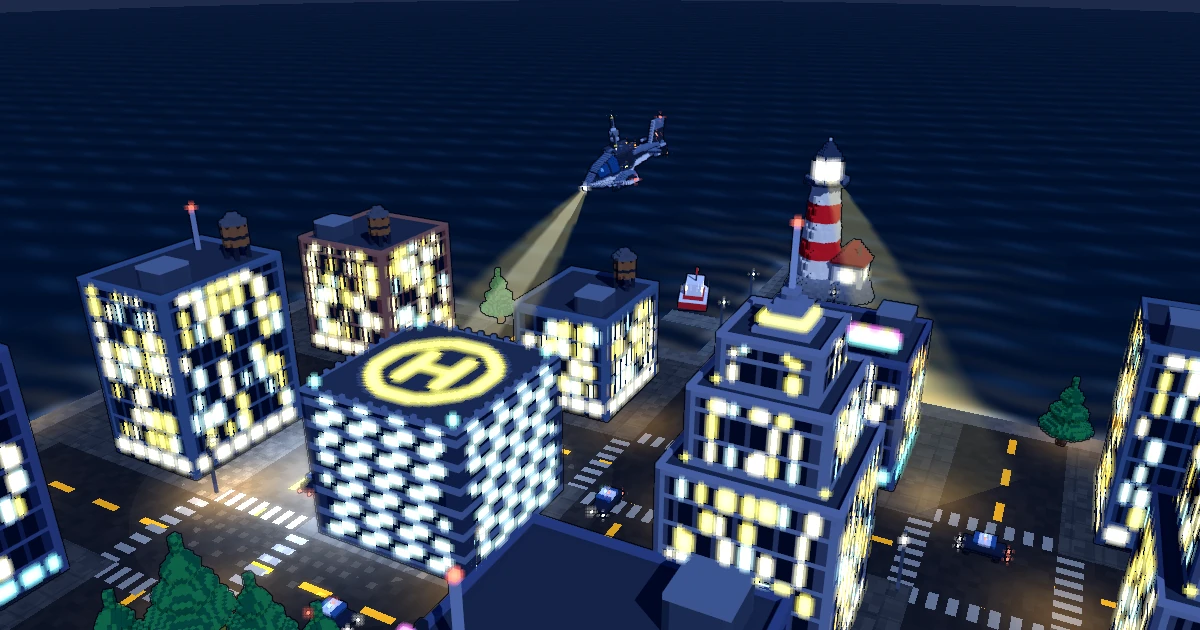
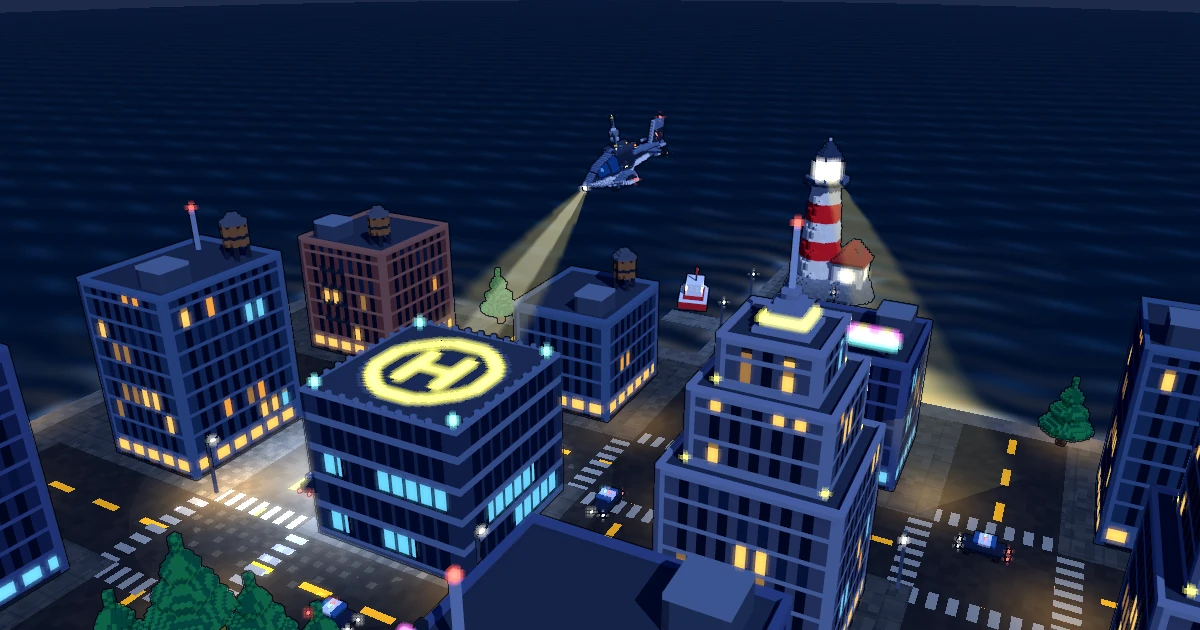
Add graded continuous emissive shader + refined suite-clustered midnight building lights

diff --git a/examples/airwolf-city/src/assets.ts b/examples/airwolf-city/src/assets.ts
@@ -22,13 +22,13 @@ function buildVoxelAsset(
   l: number,
   h: number,
   voxelScale: number,
-  fill: (put: (x: number, y: number, z: number, rgb: RGB, emissive?: boolean) => void) => void,
+  fill: (put: (x: number, y: number, z: number, rgb: RGB, emissive?: boolean | number) => void) => void,
   sockets: Record<string, SocketDef> = {},
   pivot?: [number, number, number],
 ): VolumeAsset {
   const rgba = new Uint8Array(w * l * h * 4);
   const emis = new Uint8Array(w * l * h);
-  const put = (x: number, y: number, z: number, rgb: RGB, emissive = false) => {
+  const put = (x: number, y: number, z: number, rgb: RGB, emissive: boolean | number = false) => {
     const ix = Math.round(x);
     const iy = Math.round(y);
     const iz = Math.round(z);
@@ -39,7 +39,7 @@ function buildVoxelAsset(
     rgba[p + 1] = rgb[1];
     rgba[p + 2] = rgb[2];
     rgba[p + 3] = 255;
-    emis[idx] = emissive ? 255 : 0;
+    emis[idx] = typeof emissive === "number" ? Math.max(0, Math.min(255, Math.round(emissive))) : (emissive ? 255 : 0);
   };
   fill(put);
   return createVolumeAsset({
@@ -526,10 +526,12 @@ export function createTowerAsset(
     : [76, 96, 130];
   const lobbyBase: RGB = [34, 40, 56];
   const roofCol: RGB = [48, 56, 74];
-  const winWarm: RGB = [255, 226, 138];
-  const winAmber: RGB = [255, 178, 82];
-  const winCyan: RGB = [118, 232, 255];
-  const winOff: RGB = [18, 25, 42];
+  const winWarm: RGB = [242, 198, 114];
+  const winAmber: RGB = [228, 162, 82];
+  const winDim: RGB = [152, 118, 76];
+  const winCyan: RGB = [118, 194, 224];
+  const winOff: RGB = [16, 22, 38];
+  const winGlassReflect: RGB = [28, 38, 62];
   const neonPink: RGB = [255, 68, 178];
   const neonCyan: RGB = [64, 240, 255];
   const neonGold: RGB = [255, 214, 78];
@@ -565,34 +567,46 @@ export function createTowerAsset(
                 put(x, y, z, wallTrim);
                 continue;
               }
-              // Ground-floor glowing storefront arcade & entrance doors!
+              // Ground-floor glowing storefront arcade & entrance doors (cozy warm glow, zero blowout!)
               if (isGround && z < 3 * m) {
                 const coord = (x === x0 || x === x1) ? (y - y0) : (x - x0);
                 const isShopWin = z >= m && z < 3 * m - (m === 2 ? 1 : 0) && (coord % (3 * m)) >= m;
                 if (isShopWin) {
-                  put(x, y, z, style === "neon" ? neonCyan : winWarm, true);
+                  put(x, y, z, style === "neon" ? winCyan : winWarm, 132);
                 } else {
                   put(x, y, z, z === 0 ? lobbyBase : wallTrim);
                 }
                 continue;
               }
-              // Architectural pilasters & recessed window bays
+              // Architectural pilasters & crisp recessed office/apartment window suites!
               const uCoord = (x === x0 || x === x1) ? (y - y0) : (x - x0);
               const bayStride = 2 * m;
-              const inBay = (uCoord % bayStride) >= (m === 2 ? 1 : 1) && uCoord > m && uCoord < ((x === x0 || x === x1) ? (y1 - y0 - m) : (x1 - x0 - m));
+              const bayPhase = uCoord % bayStride;
+              // Leave crisp 1-voxel stone/steel mullion between every window pane in HD!
+              const inBay = (m === 2 ? (bayPhase === 1 || bayPhase === 2) : (bayPhase === 1)) &&
+                uCoord > m && uCoord < ((x === x0 || x === x1) ? (y1 - y0 - m) : (x1 - x0 - m));
               if (isFloorBand || !inBay) {
                 const sill = style === "brick" && relZ % floorStep === 0;
                 put(x, y, z, sill ? wallTrim : isFloorBand ? wallTrim : wallBase);
               } else {
-                const r = hash3(Math.floor(x / m), Math.floor(y / m), Math.floor(z / floorStep), seed);
-                const litThresh = style === "glass" ? 128 : 142;
-                if (r > litThresh) {
-                  const col = r > 228 ? winCyan : r > 184 ? winWarm : winAmber;
-                  // In HD, leave a subtle 1-voxel dark window blind at the top of some windows!
-                  const blind = m === 2 && (relZ % floorStep === floorStep - 1) && (r & 1) === 0;
-                  put(x, y, z, blind ? winOff : col, !blind);
+                const floorIdx = Math.floor(z / floorStep);
+                const suiteIdx = Math.floor(uCoord / (4 * m)); // cluster adjacent panes into realistic rooms/suites!
+                const floorRoll = hash3(floorIdx, seed, 3, seed);
+                const suiteRoll = hash3(suiteIdx, floorIdx, (x === x0 || x === x1) ? 1 : 2, seed);
+                const paneRoll = hash3(Math.floor(uCoord / bayStride), floorIdx, 9, seed);
+                // Some entire floors dark (unoccupied at midnight), lit suites have warm cohesive room hues!
+                const floorActive = floorRoll > 66;
+                const litThresh = style === "glass" ? 168 : 176;
+                if (floorActive && suiteRoll > litThresh && paneRoll > 48) {
+                  const col = suiteRoll > 236 ? winCyan : suiteRoll > 212 ? winWarm : suiteRoll > 190 ? winAmber : winDim;
+                  // Top voxel of each HD window pane slightly shaded like interior ceiling / venetian blind!
+                  const isTopOfPane = m === 2 && (relZ % floorStep === floorStep - 1);
+                  const isUpperLit = isTopOfPane && (suiteRoll & 1) === 0;
+                  const emisVal = isUpperLit ? 68 : suiteRoll > 212 ? 128 : 108;
+                  put(x, y, z, isUpperLit ? winDim : col, emisVal);
                 } else {
-                  put(x, y, z, winOff);
+                  const subtleSkyRef = ((floorIdx + suiteIdx) % 7 === 0);
+                  put(x, y, z, subtleSkyRef ? winGlassReflect : winOff);
                 }
               }
             }
@@ -753,12 +767,17 @@ export function createHelipadTowerAsset(detail: DetailLevel): VolumeAsset {
             continue;
           }
           const cornerPier = (x < 2 * m || x >= w - 2 * m) && (y < 2 * m || y >= l - 2 * m);
-          const band = z % (3 * m) < m;
-          if (cornerPier || band) {
+          const band = z % (4 * m) < m;
+          const mullion = ((x === 0 || x === w - 1) ? y : x) % (2 * m) === 0;
+          if (cornerPier || band || mullion) {
             put(x, y, z, band ? TRIM : WALL);
           } else {
-            const lit = ((Math.floor(x / m) + Math.floor(y / m) + Math.floor(z / m) * 3) % 5) < 2;
-            put(x, y, z, lit ? [122, 224, 255] : [20, 30, 52], lit);
+            // Sleek dark smoked obsidian glass with subtle occasional late-night ops floor glow
+            const fl = Math.floor(z / (4 * m));
+            const st = Math.floor(((x === 0 || x === w - 1) ? y : x) / (5 * m));
+            const r = hash3(st, fl, (x === 0 || x === w - 1) ? 1 : 2, 99);
+            const lit = r > 196 && (z % (4 * m)) >= m + (m === 2 ? 1 : 0);
+            put(x, y, z, lit ? [116, 198, 232] : [18, 26, 46], lit ? 112 : 0);
           }
         }
       }

diff --git a/packages/core/src/shaders.ts b/packages/core/src/shaders.ts
@@ -213,11 +213,6 @@ vec3 shadeVoxel(vec3 baseLin, vec3 worldN, float ao, float emisFlag, float selfS
   float nightW = max(0.0, (uTimeOfDay - 0.48) / 0.52);
   bool arcade = (uStyle == 0 || uStyle == 3);
 
-  if (emisFlag > 0.5) {
-    float boost = 1.0 + (0.45 + nightW * 0.9) * emisBoost;
-    return baseLin * boost + vec3(0.15, 0.09, 0.02) * emisBoost;
-  }
-
   vec3 shMul = arcade
     ? mix(mix(vec3(0.50, 0.60, 0.84), vec3(0.44, 0.40, 0.68), sunsetW), vec3(0.18, 0.24, 0.44), nightW)
     : mix(mix(vec3(0.62, 0.69, 0.84), vec3(0.52, 0.48, 0.70), sunsetW), vec3(0.20, 0.25, 0.42), nightW);
@@ -248,7 +243,19 @@ vec3 shadeVoxel(vec3 baseLin, vec3 worldN, float ao, float emisFlag, float selfS
   vec3 skyBounce = mix(vec3(1.03, 0.96, 0.88), vec3(0.96, 1.01, 1.06), hemi);
   float bounceBack = max(0.0, -ndotl) * (1.0 - nightW * 0.7) * 0.10;
   tint = tint * mix(vec3(1.0), skyBounce, 0.35) + vec3(0.14, 0.10, 0.06) * bounceBack;
-  return baseLin * srgbToLin(clamp(tint, 0.0, 2.2)) * ao;
+  vec3 shadedLin = baseLin * srgbToLin(clamp(tint, 0.0, 2.2)) * ao;
+
+  if (emisFlag > 0.01) {
+    // Graded continuous emissive:
+    //  0.25..0.55 -> rich cozy interior window & shopfront glow without clipping mullions to white
+    //  0.80..1.00 -> bright sparkling beacons, fairy lights, neon signs & afterburners
+    float selfLit = smoothstep(0.02, 0.45, emisFlag);
+    float hot = max(0.0, (emisFlag - 0.55) / 0.45);
+    float boost = mix(0.92, 1.0 + (0.42 + nightW * 0.85) * emisBoost, hot);
+    vec3 glowLin = baseLin * boost + vec3(0.10, 0.06, 0.015) * emisBoost * hot;
+    return mix(shadedLin, glowLin, selfLit);
+  }
+  return shadedLin;
 }
 
 bool traceLocalShadow(vec3 ro, vec3 rd) {
@@ -570,7 +577,8 @@ void main() {
   }
 
   outColor = vec4(finalSrgb, cov);
-  outAux = vec4(outlineOn ? objIdNorm : 0.0, avgEm, isLegacy ? 1.0 : 0.0, cov);
+  float bloomSignal = clamp((avgEm - 0.34) * 1.52, 0.0, 1.0);
+  outAux = vec4(outlineOn ? objIdNorm : 0.0, bloomSignal, isLegacy ? 1.0 : 0.0, cov);
 }`;
 
 export const RIBBON_VS = `#version 300 es
